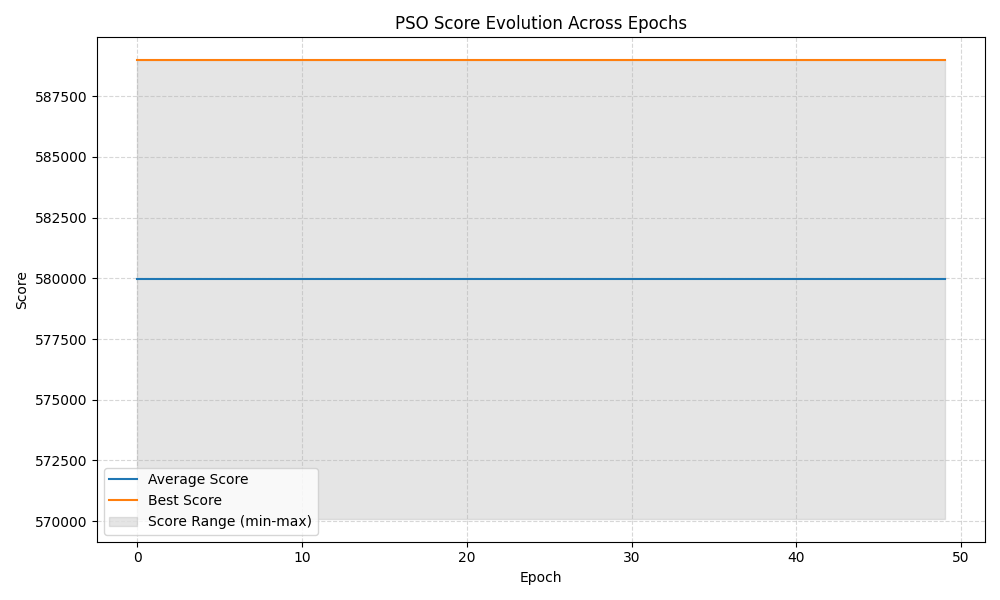
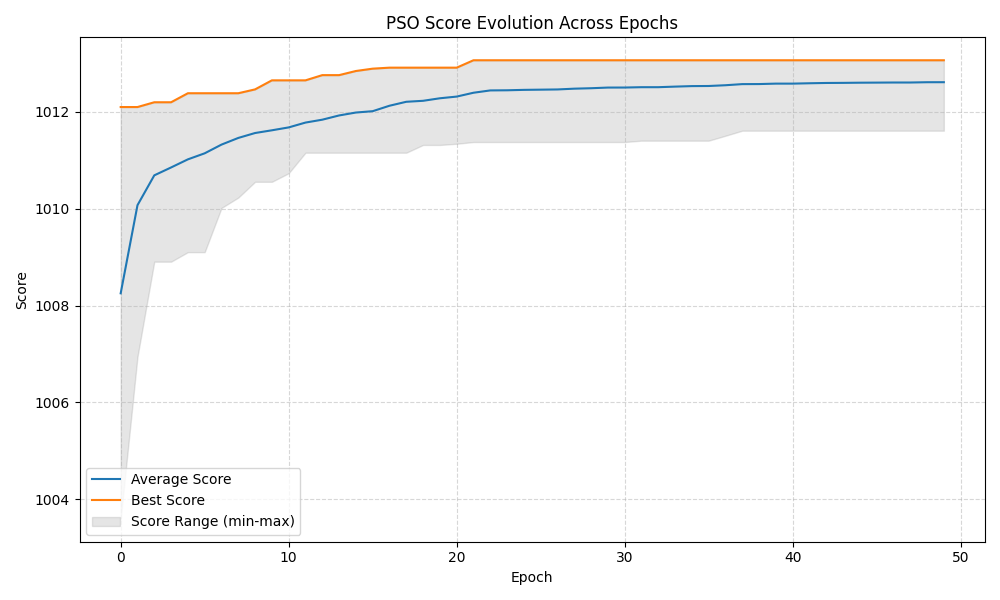
retrait energy metric, change PPo param

diff --git a/pfe/pso.py b/pfe/pso.py
@@ -96,7 +96,7 @@ def evaluate(position, col_idx, env):
         except Exception as e:
             pass
 
-    total_cost = sum(task.exe_energy for task in tasks)
+    #total_cost = sum(task.exe_energy for task in tasks)
     success_rate = SuccessRate().eval(env.logger.task_info)
     avg_latency = AvgLatency().eval(env.logger.task_info)
     env.reset()
@@ -110,7 +110,7 @@ def evaluate(position, col_idx, env):
     norm_latency = 1 / (1 + avg_latency)  # lower latency -> closer to 1
 
     # Weights: success rate is most important, then energy, then latency
-    score = (norm_success * 1e6) + (norm_energy * 1e3) + (norm_latency * 1e2)
+    score = (norm_success * 1e3) +  (norm_latency * 1e2) #+ (norm_energy * 1e6)
     return score
 
 class Particle:
@@ -271,9 +271,15 @@ def run_pso(
 if __name__ == "__main__":
     profiler = cProfile.Profile()
     profiler.enable()
-    solution, cost, avg_scores, best_scores, min_scores, max_scores = run_pso()
+    result = run_pso()
     profiler.disable()
-    # print("Meilleure solution :", solution)
+    solution = result['best_position']
+    cost = result['best_score']
+    avg_scores = result['avg_scores']
+    best_scores = result['best_scores']
+    min_scores = result['min_scores']
+    max_scores = result['max_scores']
+    print("Meilleure solution :", solution)
     print("Coût associé :", cost)
     import matplotlib
     matplotlib.use('Agg')

diff --git a/pfe/DRL_agent_pso.py b/pfe/DRL_agent_pso.py
@@ -68,17 +68,20 @@ if __name__ == "__main__":
     env = DummyVecEnv([lambda: env])
     #check_env(env, warn=True)
 
+    # Each PSO run takes ~2 seconds. For a reasonable experiment (~7 minutes):
+    # total_timesteps = 200 (200 PSO runs, ~400 seconds)
+    # n_steps = 8, batch_size = 8 for frequent updates
     model = PPO(
         "MlpPolicy",
         env,
-        n_steps=8,         # Collect 32 steps per update (32 PSO runs per update)
-        batch_size=8,      # Mini-batch size for optimizer (must be <= n_steps)
-        n_epochs=8,         # Number of passes over the rollout buffer per update
-        learning_rate=3e-2, # Default learning rate, tune if needed
+        n_steps=128,         # 8 PSO runs per update
+        batch_size=32,      # Mini-batch size for optimizer
+        n_epochs=10,        # Number of passes over the rollout buffer per update
+        learning_rate=3e-4, # Default learning rate, tune if needed
         gamma=0.99,         # Discount factor (default)
         verbose=1,
     )
-    model.learn(total_timesteps=40)  # ~40 minutes if PSO run ≈ 45s
+    model.learn(total_timesteps=10000)  # 200 PSO runs (~400 seconds, ~7 minutes)
 
     obs = env.reset()
     action, _ = model.predict(obs, deterministic=True)
